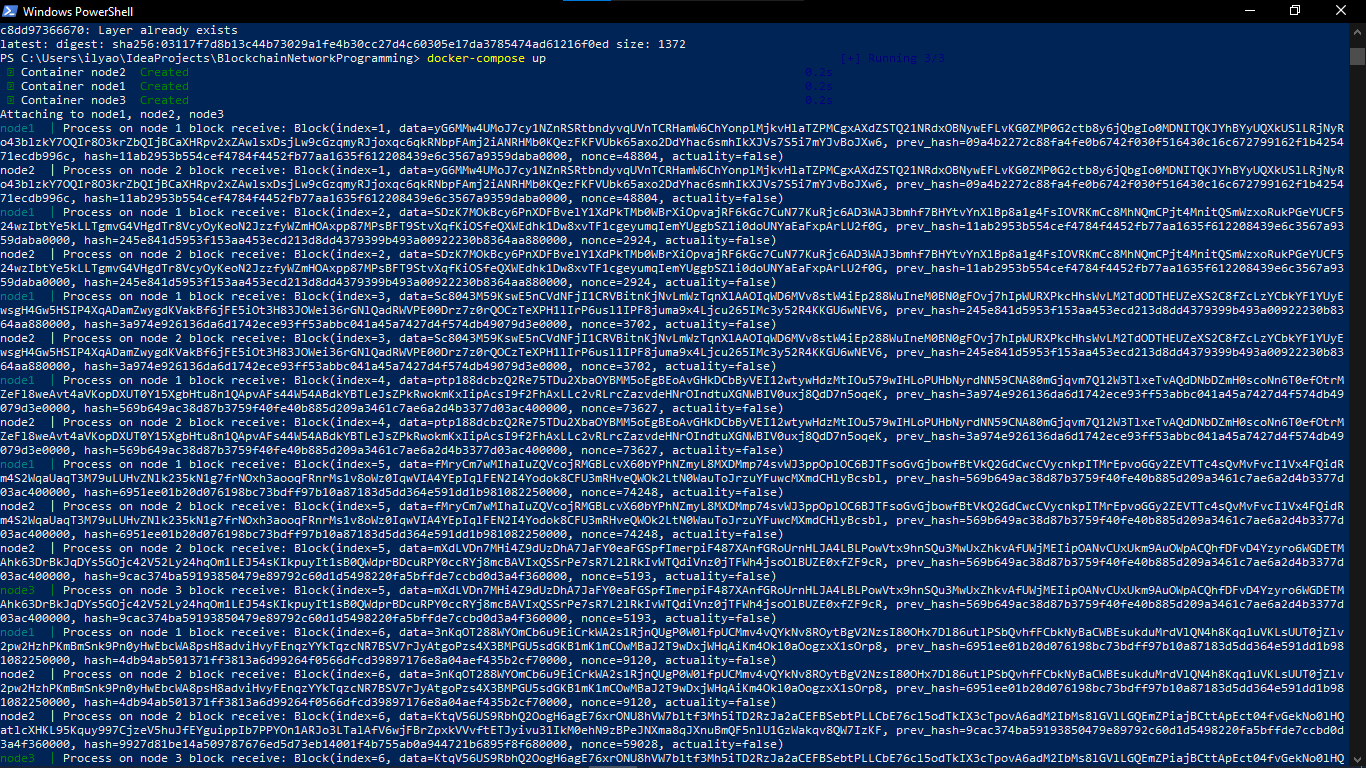
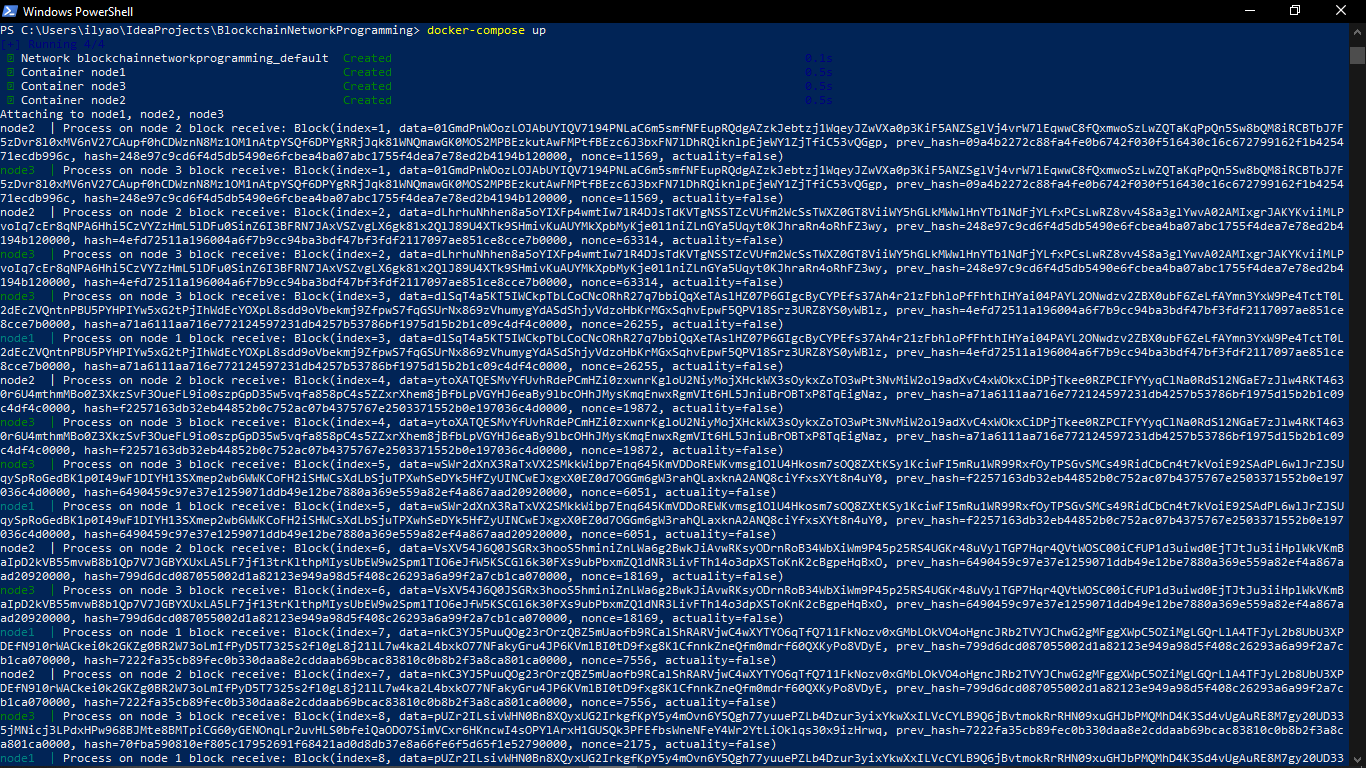
fixed "network_mode: host"

Changed region(s): [[0.0, 0.0312, 0.9839, 1.0]]

diff --git a/src/main/kotlin/processes/ProcessesAddons.kt b/src/main/kotlin/processes/ProcessesAddons.kt
@@ -4,6 +4,9 @@ const val PORT_1 = 8001
 const val PORT_2 = 8002
 const val PORT_3 = 8003
 const val LOCALHOST = "localhost"
+const val NODE_1 = "node1"
+const val NODE_2 = "node2"
+const val NODE_3 = "node3"
 
 fun getNumberNode(port: Int): Int {
     return port % 1000
@@ -18,6 +21,10 @@ fun getGroupPorts(port: Int): List<Int> {
     else {
         listOf(PORT_1, PORT_2)
     }
+}
+
+fun getGroupNodes(): List<String> {
+    return listOf(NODE_1, NODE_2, NODE_3)
 }
 
 fun checkHighLevelOfProcess(process: Process):Boolean {

diff --git a/src/main/kotlin/processes/Connector.kt b/src/main/kotlin/processes/Connector.kt
@@ -10,7 +10,7 @@ object Connector {
         for (port in getGroupPorts(this.port)) {
             try {
                 val groupSocket = this.groupSockets.getOrPut(port) {
-                    Socket(LOCALHOST, port)
+                    Socket(getGroupNodes()[getNumberNode(port) - 1], port)
                 }
                 val pw = PrintWriter(groupSocket.getOutputStream(), true)
                 pw.println(BlockGSON.gson.toJson(msg))
